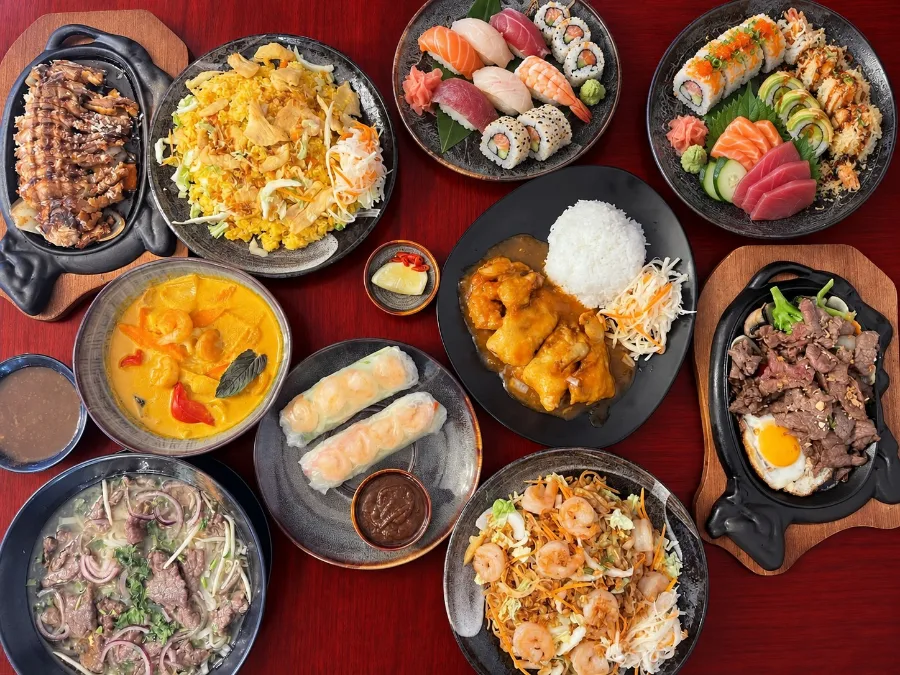
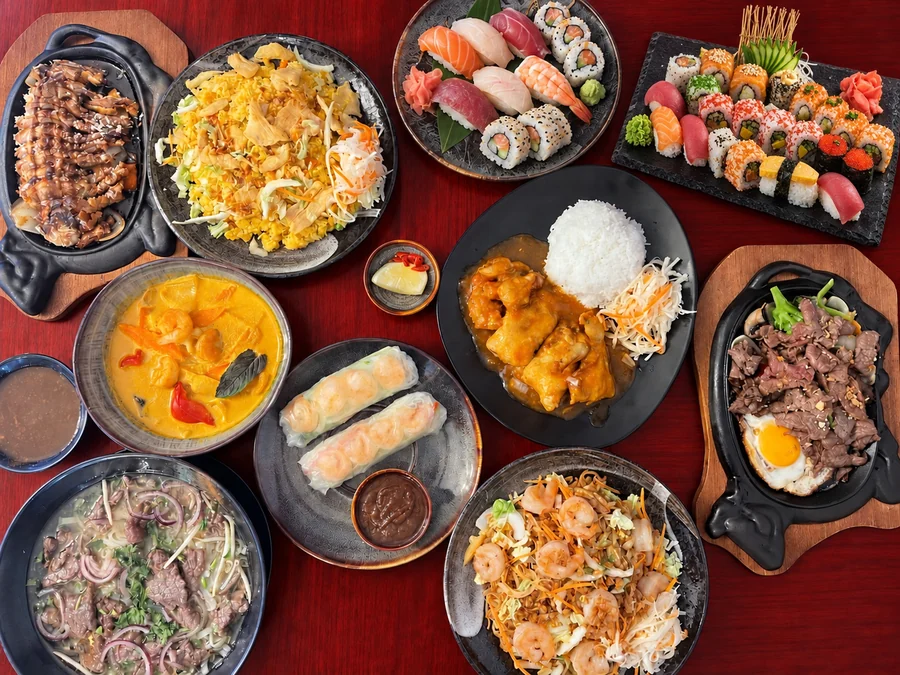
upload

diff --git a/css/style.css b/css/style.css
@@ -654,7 +654,7 @@ body { overflow-x: hidden; font-size: 17px; }
   .header-phone strong { margin: 0; font-size: 14px; }
   .nav-cta { grid-area: cart; min-height: 44px; margin-left: 0; padding: 8px 10px; font-size: 13px; justify-self: end; }
   .hero { min-height: min(620px, calc(100dvh - 72px)); }
-  .hero .hero-photo { object-position: center; }
+  .hero .hero-photo { object-position: right center; }
   .hero::after { background: linear-gradient(0deg, rgb(39 3 5 / 40%), rgb(39 3 5 / 12%) 65%, rgb(39 3 5 / 24%)), radial-gradient(ellipse at center, rgb(35 3 5 / 52%), rgb(35 3 5 / 2%) 74%); }
   .hero-content { padding-block: 52px; }
   .hero h1, .hero-content > p { width: 100%; max-width: 100%; overflow-wrap: anywhere; }
@@ -724,7 +724,7 @@ body { overflow-x: hidden; font-size: 17px; }
     min-height: min(620px, calc(100dvh - 68px));
     align-items: stretch;
   }
-  .hero .hero-photo { object-position: center; }
+  .hero .hero-photo { object-position: right center; }
   .hero::after {
     background:
       linear-gradient(0deg, rgb(24 4 5 / 76%), rgb(35 4 6 / 42%) 62%, rgb(35 4 6 / 8%) 100%),
